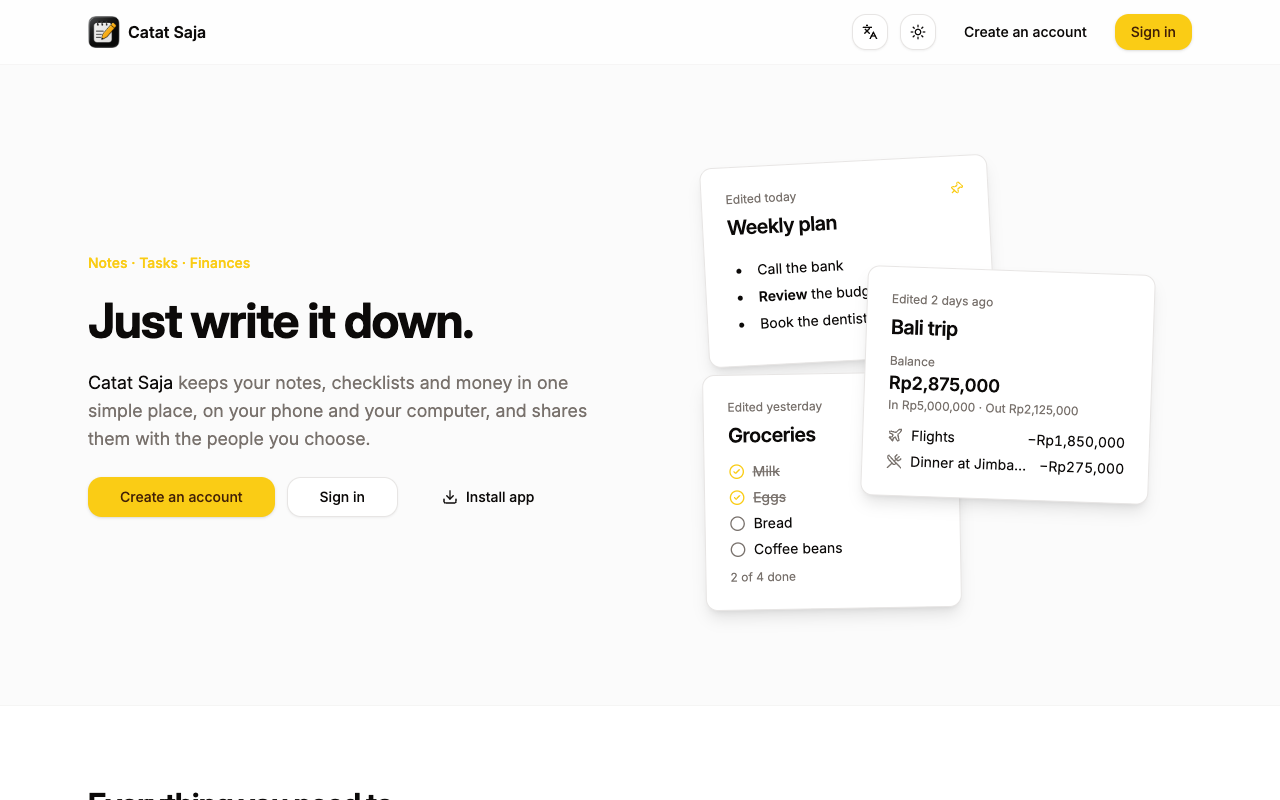
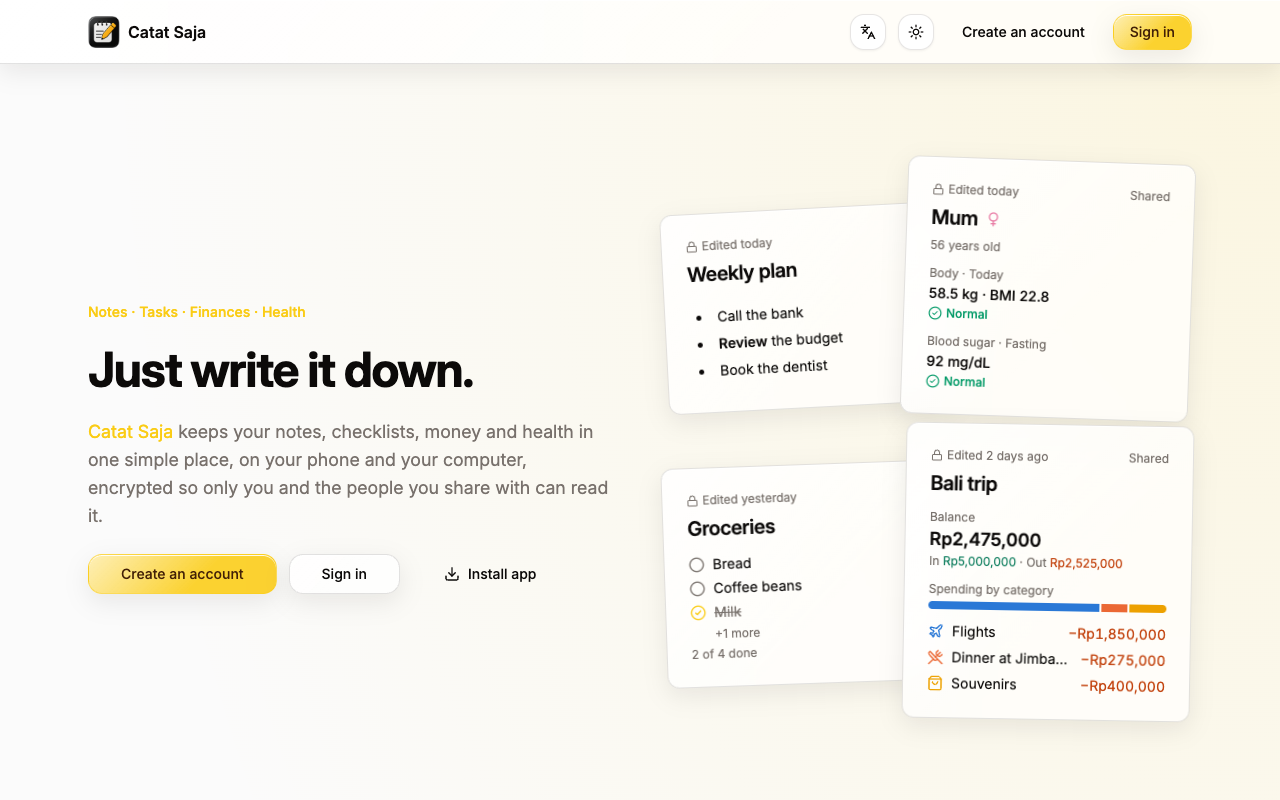
feat(content): refresh Catat Saja details and thumbnails

diff --git a/src/data/featured-projects.ts b/src/data/featured-projects.ts
@@ -21,17 +21,18 @@ export const featuredProjects = [
     title: 'Catat Saja',
     linkLabel: 'View project',
     category: 'Everyday tools',
-    summary: 'Notes, tasks, and finances, organized and shared in one place.',
-    technologies: ['React Router', 'TypeScript', 'Firebase'],
+    summary:
+      'Notes, tasks, finances, and health logs, encrypted and shared in one place.',
+    technologies: ['React Router', 'TypeScript', 'Firebase', 'Web Crypto'],
     image: '/images/projects/catatsaja.png',
     darkImage: '/images/projects/catatsaja-dark.png',
-    alt: 'Catat Saja landing page showing a weekly plan note, a shared grocery checklist, and a trip finance book',
+    alt: 'Catat Saja landing page showing a weekly plan note, a grocery checklist, a shared health log, and a trip finance book with spending by category',
     problem:
-      'Keep everyday notes, tasks, and income and expenses together without switching between apps.',
+      'Keep everyday notes, tasks, money, and family health records together, with control over who can read them.',
     contribution:
-      'A React Router and Firebase application with rich-text notes, task checklists, and shared finance books. Income and expense entries support multiple currencies and retain their exchange rates.',
+      'A React Router and Firebase app with autosaving Markdown notes, checklists, multi-currency finance books with cash flow and spending charts, and health logs for body measurements, child growth, lab results, calories, and periods. Web Crypto encrypts records on the device, including when sharing them.',
     result:
-      'Write notes, track tasks and balances, search across all three, and share with view or edit access. Available in English and Indonesian, with installation on phones and computers.',
+      'Search across notes, tasks, finances, and health logs, and share any record with view or edit access and real-time updates. Finance entries keep their exchange rates, and health charts show trends and reference ranges. Available in English and Indonesian as an installable app for phones and computers.',
   },
   {
     name: 'project-profile-nextjs',
